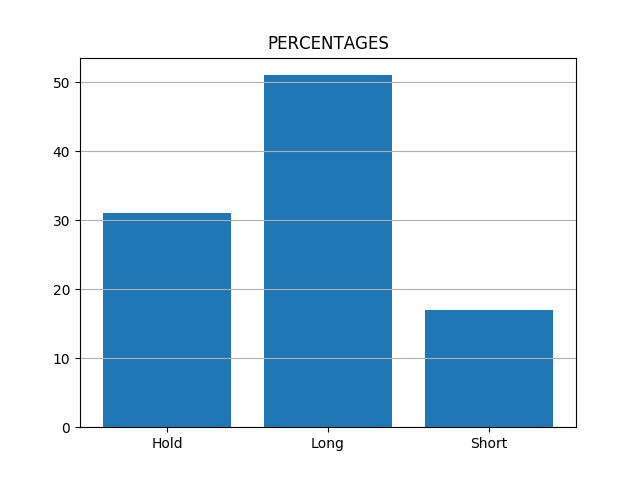
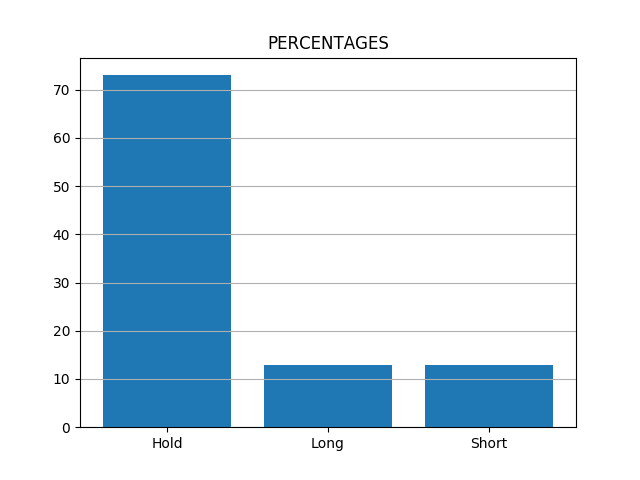
readded observation space

diff --git a/main.py b/main.py
@@ -12,15 +12,14 @@ import telegram as te
 from telegramSettings import telegramToken, telegramChatID
 
 bot = te.Bot(token=telegramToken)
-startingTime=datetime.datetime.now()
-bot.send_message(chat_id=telegramChatID, text="Experiment started "+str(datetime.datetime.now()))
+
 #842063
 environment = SpEnv.SpEnv(maxLimit = 1893600, verbose=True,operationCost=0,observationWindow=600, output='resultsTrain.csv')
 testEnv = SpEnv.SpEnv(minLimit = 1893601, verbose=True,operationCost=0,observationWindow=600, output='resultsTest.csv')
-nb_actions = 3#environment.action_space.n
+nb_actions = environment.action_space.n
 
 model = Sequential()
-model.add(Flatten(input_shape=(20,) + (environment.observationWindow+1,)))
+model.add(Flatten(input_shape=(20,) + environment.observation_space.shape))
 model.add(Dense(128))
 model.add(Activation('sigmoid'))
 model.add(Dense(256))
@@ -32,10 +31,7 @@ model.add(Activation('linear'))
 
 policy = EpsGreedyQPolicy(eps = 0.5)
 
-'''
-policy = IntradayPolicy.getPolicy(env = environment, eps = 0.5, stopLoss=-500, minOperationLength=5)
-policyTest = IntradayPolicy.getPolicy(env = testEnv, eps = 0, stopLoss=-500, minOperationLength=5)
-'''
+
 
 memory = SequentialMemory(limit=100000, window_length=20)
 dqn = DQNAgent(model=model, nb_actions=nb_actions,enable_dueling_network=True, memory=memory, nb_steps_warmup=4000,

diff --git a/SpEnv.py b/SpEnv.py
@@ -62,10 +62,10 @@ class SpEnv(gym.Env):
         self.maxValue = max(values)
         self.minTime = min(time)
         self.maxTime = max(time)
-        self.low = numpy.array([self.minValue, self.minTime, 0])
-        self.high = numpy.array([self.maxValue, self.maxTime, 2])
-        #self.action_space = gym.spaces.Discrete(3) # the action space is just 0,1,2 which means nop,buy,sell
-        #self.observation_space = Box(self.low, self.high, dtype=numpy.float32)
+        self.low = numpy.array([self.minValue for i in range(self.observationWindow)] + [0])
+        self.high =  numpy.array([self.maxValue for i in range(self.observationWindow)] + [2])
+        self.action_space = gym.spaces.Discrete(3) # the action space is just 0,1,2 which means no-operation,buy,sell
+        self.observation_space = Box(self.low, self.high, dtype=numpy.float32)
         
         currentValue = list(map(lambda x: x['Value'],self.history[self.currentObservation-self.observationWindow:self.currentObservation]))
         currentValue.append(self.currentState)
